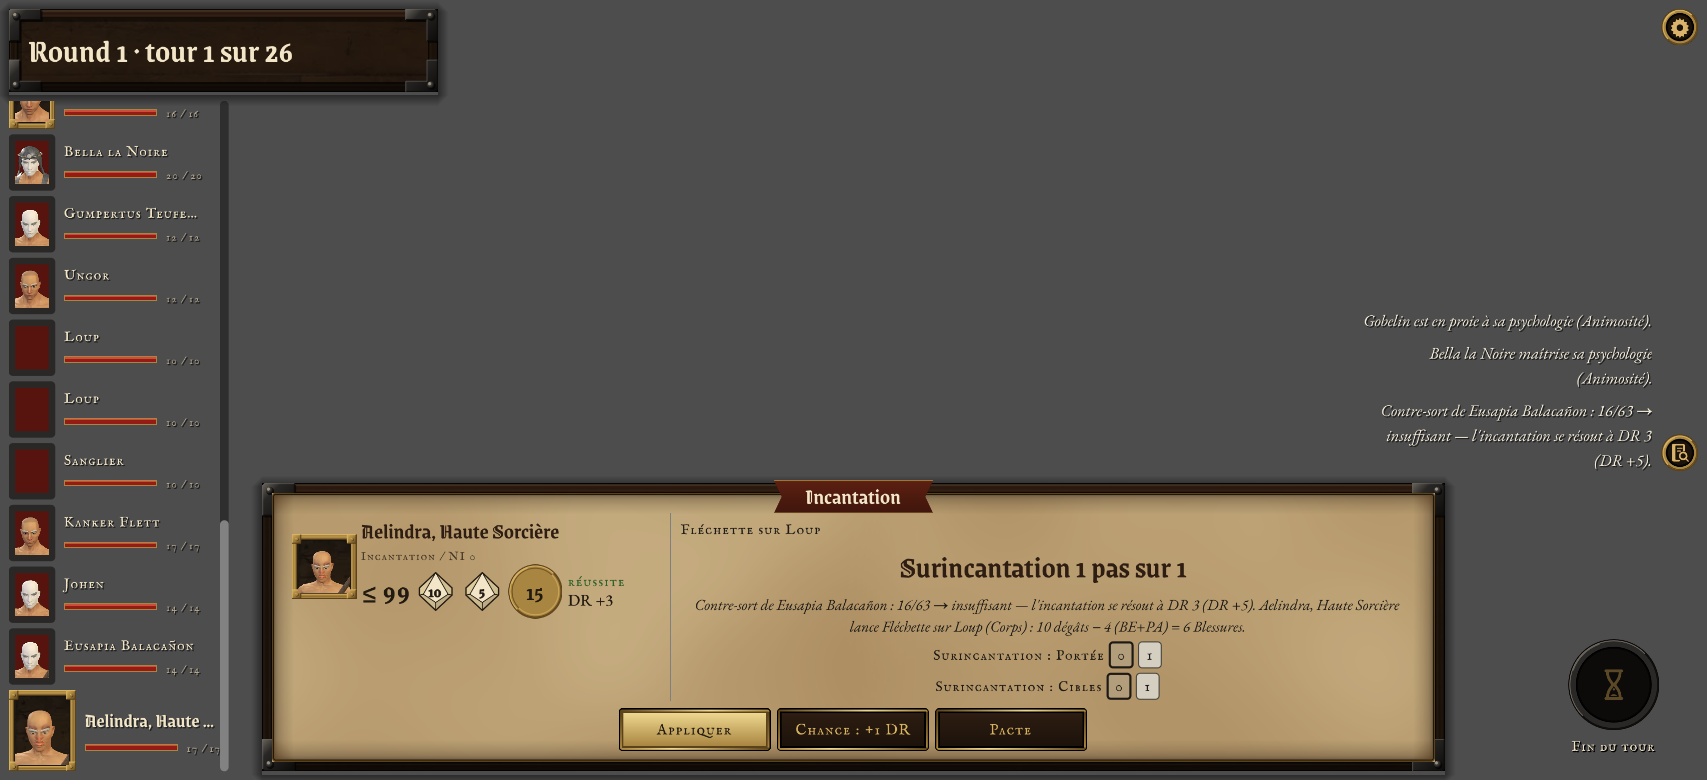
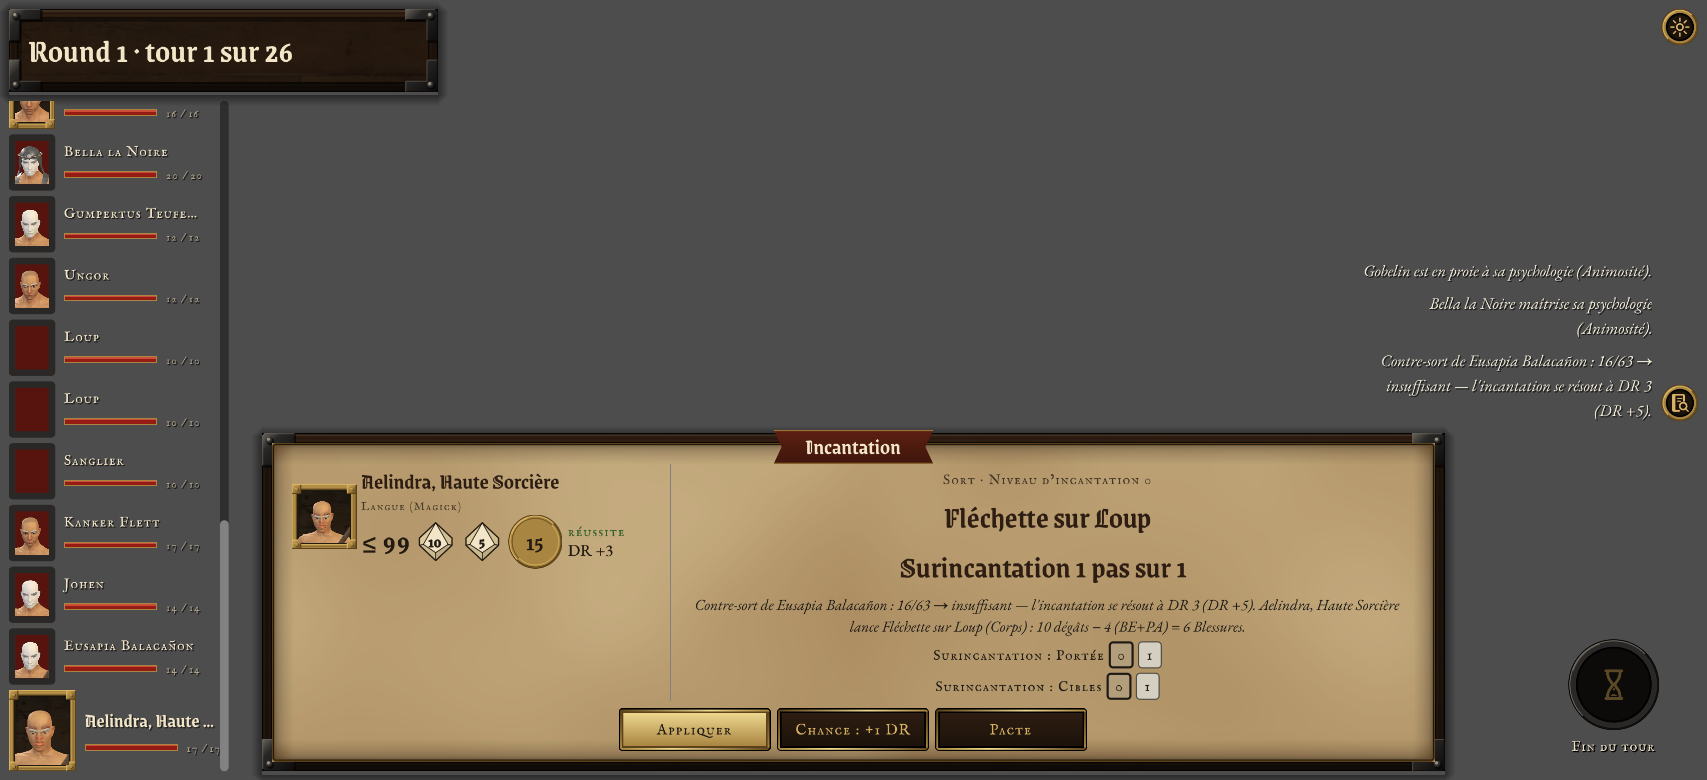
fix(godot): afficher le Niveau d’Incantation du Sort (corrige #4519)
Le bandeau place le NI effectif au-dessus du Sort et de sa cible.
Le camp du lanceur nomme la Compétence et la Zone garde sa pastille.
La recette joue Fléchette sur le Loup et Sang de la Terre sur soi-même.

VERIFIE: deux tests du pont, recette Godot native, et relecture du contrat d’incantation.
JUGE: 1 ronde · CONFIRMÉ par la revue du diff, de la cible écrite et des captures natives.
REFUTATION: CONFIRMÉ · les tests du pont échouent sur le NI absent avant le correctif et confirment 0 et 6 dans le flux réel.
JUGE-VISION: CONFIRMÉ · les captures natives montrent la rubrique au-dessus du Sort, la cible et la Zone lisibles dans le bandeau.

Codex-Thread: https://chatgpt.com/codex/tasks/6aff0597-eb78-8191-b100-d1886200006b

Changed region(s): [[0.1242, 0.3385, 0.9936, 0.8], [0.9625, 0.0308, 0.9936, 0.0615], [0.4036, 0.6769, 0.4347, 0.7077]]

diff --git a/hotes/godot/pont/incantation.hors-store.test.ts b/hotes/godot/pont/incantation.hors-store.test.ts
@@ -3,17 +3,15 @@
  * d'engagement, la Haute Sorcière choisit son sort dans la liste de ses sorts (une offre par candidat), puis sa cible
  * au clic : la fenêtre d'incantation s'ouvre sur ce sort.
  */
-import { describe, it, expect } from 'vitest';
-import { drainer, table, type Reponse, enFocus, gestesDessines } from './pont.testkit';
+import { afterEach, describe, it, expect } from 'vitest';
+import { corpsDe, drainer, table, type Reponse, enFocus, gestesDessines } from './pont.testkit';
 import { CLIC_DU_CHAMP } from '../../../src/noyau/index';
 import type { Bouton, Choix } from '../../../src/hote/elements';
-import { clicDuCombattant, type Suite } from './pont';
-
-const { appel } = table();
+import { clicDuCombattant, type Pont, type Suite } from './pont';
 
 /** Joue le geste que l'Entrée jouerait, ou la première valeur ouverte d'un choix de la fenêtre, tant qu'une fenêtre tient
  *  la main. */
-function viderLesFenetres(suite: Suite): Suite {
+function viderLesFenetres(appel: ReturnType<typeof table>['appel'], suite: Suite): Suite {
   for (let pas = 0; suite.vue.projection.fenetre; pas++) {
     expect(pas, 'les fenêtres se vident').toBeLessThan(20);
     const g = gestesDessines(suite.vue);
@@ -23,12 +21,25 @@ function viderLesFenetres(suite: Suite): Suite {
   return suite;
 }
 
-const jouer = (r: Reponse): Suite => drainer(appel, r).suite;
+let ouvert: Pont | null = null;
+afterEach(() => {
+  ouvert?.appeler('quitter');
+  ouvert = null;
+});
+
+function ouvrirLeCombatDeMagie() {
+  const { appel, pont } = table();
+  ouvert = pont;
+  const jouer = (r: Reponse): Suite => drainer(appel, r).suite;
+  viderLesFenetres(appel, jouer(appel('demarrer', { scenario: 'magie', graine: 7 })));
+  const suite = viderLesFenetres(appel, jouer(appel('jouer', { type: CLIC_DU_CHAMP, args: [{ x: 16, y: 11 }] })));
+  return { appel, jouer, suite };
+}
 
 describe('l’incantation par le pont', () => {
   it('choisir son sort parmi les siens, puis sa cible : la fenêtre d’incantation s’ouvre sur ce sort', () => {
-    viderLesFenetres(jouer(appel('demarrer', { scenario: 'magie', graine: 7 })));
-    let suite = viderLesFenetres(jouer(appel('jouer', { type: CLIC_DU_CHAMP, args: [{ x: 16, y: 11 }] })));
+    const { appel, jouer, suite: ouverture } = ouvrirLeCombatDeMagie();
+    let suite = ouverture;
     expect(suite.vue.zones['combat.actif'][0]).toMatchObject({ nom: 'Aelindra, Haute Sorcière' });
 
     const offres = suite.vue.zones['combat.offres'];
@@ -55,11 +66,13 @@ describe('l’incantation par le pont', () => {
     expect(suite.vue.zones['combat.actif'], 'la fenêtre de jet prend la place du meuble de l’actif, qui n’est plus servi').toEqual([]);
     const corps = () => Object.fromEntries(suite.vue.zones['fenetre.corps'].map((e) => [e.id, e]));
     expect(corps().sort, 'le sort et sa cible').toMatchObject({ texte: 'Fléchette sur Loup' });
-    expect(corps().jet, 'la ligne du lanceur, son NI au libellé, à jeter').toMatchObject({ qui: 'Aelindra, Haute Sorcière', libelle: 'Incantation / NI 0', resultat: null });
+    expect(corps().ni, 'le centre montre le NI avant le jet, y compris 0').toMatchObject({ type: 'ligne', texte: 'Sort · Niveau d’incantation 0' });
+    expect(corps().jet, 'la Compétence du lanceur, à jeter').toMatchObject({ qui: 'Aelindra, Haute Sorcière', libelle: 'Langue (Magick)', resultat: null });
     expect(suite.vue.zones['fenetre.reglages'], 'avant le jet, aucun pas de Surincantation').toEqual([]);
 
     suite = jouer(appel('jouer', enFocus(suite.vue)!.jeu));
     expect(corps().jet, 'le jet tombe').toMatchObject({ resultat: '15', verdict: 'réussite' });
+    expect(corps().ni).toMatchObject({ texte: 'Sort · Niveau d’incantation 0' });
     expect(corps().surincantation, 'le DR ouvre la Surincantation').toMatchObject({ valeur: '1 pas sur 1' });
     const reglages = suite.vue.zones['fenetre.reglages'];
     expect(reglages.map((r) => r.libelle), 'chaque axe que le sort ouvre est un choix de pas ; les cibles supplémentaires se désignent sur la carte').toEqual(['Surincantation : Portée', 'Surincantation : Cibles']);
@@ -76,5 +89,16 @@ describe('l’incantation par le pont', () => {
     suite = applique.suite;
     expect(suite.vue.zones['fenetre.titre'].map((l) => l.texte), 'appliquée, la fenêtre d’incantation se referme').not.toContain('Incantation');
     expect(applique.effets.find((e) => e.quoi === 'coup'), 'la Fléchette rend son trait magique, de la sorcière à sa cible (#3771)').toMatchObject({ vers: cible, depart: { visuel: 'canalisation' }, trajet: { projectile: 'trait-magique' } });
+  });
+
+  it('une Zone d’Effet centrée sur le lanceur montre le sort, sa cible et son NI', () => {
+    const { appel, jouer, suite: ouverture } = ouvrirLeCombatDeMagie();
+    const sorts = ouverture.vue.zones['combat.offres'].find((c): c is Choix => c.id === 'offre/incantation')!;
+    const sang = sorts.valeurs.find((b) => b.libelle === 'Sang de la Terre')!;
+    const { vue } = jouer(appel('jouer', sang.jeu));
+
+    expect(corpsDe(vue, 'sort')).toMatchObject({ texte: 'Sang de la Terre sur soi-même' });
+    expect(corpsDe(vue, 'zone')).toMatchObject({ libelle: 'Zone', valeur: '3 × 3 cases' });
+    expect(corpsDe(vue, 'ni')).toMatchObject({ type: 'ligne', texte: 'Sort · Niveau d’incantation 6' });
   });
 });

diff --git a/src/hote/ecran.ts b/src/hote/ecran.ts
@@ -53,6 +53,7 @@ import {
   jetsEnVue,
   porteurParId,
   recitEnVue,
+  refLabel,
   reposEnVue,
   toneOf,
   nomEnVue,
@@ -377,19 +378,24 @@ function corpsDeLAttaque(etat: Jeu, a: FenetreDAttaque): Element[] {
   return elements.filter((e): e is Element => e !== null);
 }
 
-/** Le corps de la fenêtre d'incantation (`fenetreDIncantation`) : le Sort et sa cible, son NI et sa Zone d'Effet, la
- *  ligne du lanceur (à jeter ou tombée), les pas de Surincantation qui restent, les cibles supplémentaires à désigner
- *  sur la carte, l'issue. */
+/** Le corps de la fenêtre d'incantation (`fenetreDIncantation`) : le NI effectif au-dessus du Sort et de sa cible, la
+ *  Zone d'Effet, la ligne du lanceur (à jeter ou tombée), les pas de Surincantation qui restent, les cibles
+ *  supplémentaires à désigner sur la carte, l'issue. */
 function corpsDeLIncantation(etat: Jeu, f: FenetreDIncantation): Element[] {
   const lanceur = jeteur(etat, f.lanceurId);
   const cible = f.surSoi ? t('ecran.incantation.surSoi') : garanti(nomEnVue(etat, f.cibleId), f.cibleId, 'cible de l’incantation');
   const l = f.ligne;
   const s = f.surincantation;
   const elements: (Element | null)[] = [
+    f.ni === null ? null : ligne('ni', t('ecran.incantation.ni', { ni: f.ni })),
     ligne('sort', t('ecran.incantation.sort', { sort: f.sort, cible })),
     f.zone ? puce('zone', t('ecran.incantation.zone'), t('ecran.incantation.cote', { cote: f.zone.cote }), null, f.zone.aPoser ? 'alerte' : 'neutre') : null,
     jet('jet', {
-      ...lanceur, qui: garanti(lanceur.qui, f.lanceurId, 'lanceur de l’incantation'), libelle: l.label, cible: t('ecran.jet.cible', { cible: l.jet?.target ?? l.target }), modificateurs: puces('jet', l.mods),
+      ...lanceur,
+      qui: garanti(lanceur.qui, f.lanceurId, 'lanceur de l’incantation'),
+      libelle: f.priere ? l.label : refLabel('skills', { id: 'langue', spec: 'magick' }),
+      cible: t('ecran.jet.cible', { cible: l.jet?.target ?? l.target }),
+      modificateurs: puces('jet', l.mods),
       ...(l.jet ? { resultat: String(l.jet.roll), dr: t('ecran.jet.dr', { dr: avecSigne(l.jet.sl) }), ...verdictDuTest(l.jet.success) } : {}),
     }),
     s ? puce('surincantation', t('ecran.incantation.surincantation'), t('ecran.incantation.pas', { restant: s.restant, budget: s.budget })) : null,

diff --git a/src/i18n/messages/fr.ts b/src/i18n/messages/fr.ts
@@ -1185,6 +1185,7 @@ export const fr = {
   'ecran.echoppe.ligne': '{nom} ×{qty}',
   'ecran.echoppe.payer': 'Payer {total}',
   'ecran.echoppe.vendre': 'Vendre le lot · {total}',
+  'ecran.incantation.ni': 'Sort · Niveau d’incantation {ni}',
   'ecran.incantation.sort': '{sort} sur {cible}',
   'ecran.incantation.surSoi': 'soi-même',
   'ecran.incantation.zone': 'Zone',

diff --git a/.claude/soldes/4519.md b/.claude/soldes/4519.md
@@ -1,0 +1,19 @@
+# Solde #4519 — Niveau d’Incantation dans Godot — 2026-11-19
+
+VERIFIE: le bandeau natif montre « Sort · Niveau d’incantation 0 » pour Fléchette sur le Loup avant et après le dé. Sang de la Terre sur soi-même montre le NI 6 et la Zone de 3 × 3 cases dans le même bandeau.
+
+Le Test d’Incantation compare le DR au NI du Sort (LDB 46 l.22-24, chapitre 8). La projection lit le NI effectif fourni par `fenetreDIncantation` et affiche la Compétence du lanceur dans sa ligne de jet. La rubrique précède le Sort et sa cible au centre du bandeau, selon la maquette. Le commentaire de `corpsDeLIncantation` couvre le NI, la Zone d’Effet, le jet, la Surincantation, les cibles supplémentaires et l’issue.
+
+Les deux tests du pont échouaient sur la rubrique absente avant le correctif et passent avec la projection. La recette native ouvre Sang de la Terre, revient au choix de Sort, puis cible le Loup avec Fléchette et joue le jet jusqu’à l’application.
+
+NATURE: corrigé
+
+## Restes
+
+RAS
+
+## Réfutation
+
+verdict: CONFIRMÉ
+
+Le juge a comparé les captures natives à la maquette et à la cible écrite. Il a vérifié la valeur zéro, le retrait de la rubrique pour une Prière et la provenance du NI effectif. Les deux tests du pont et la recette native couvrent le zéro, la cible ennemie et le sort à Zone centré sur le lanceur.
